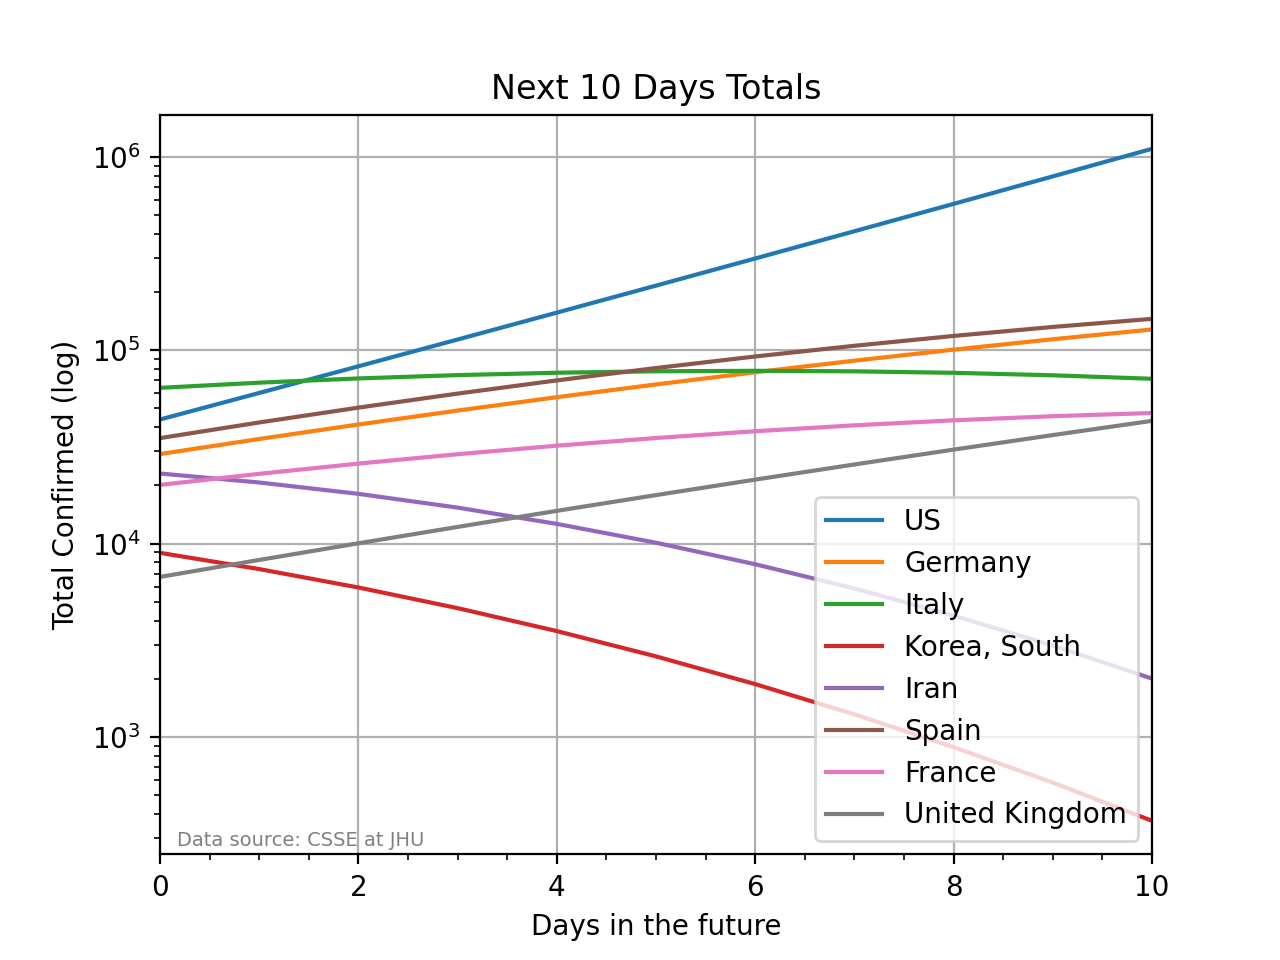
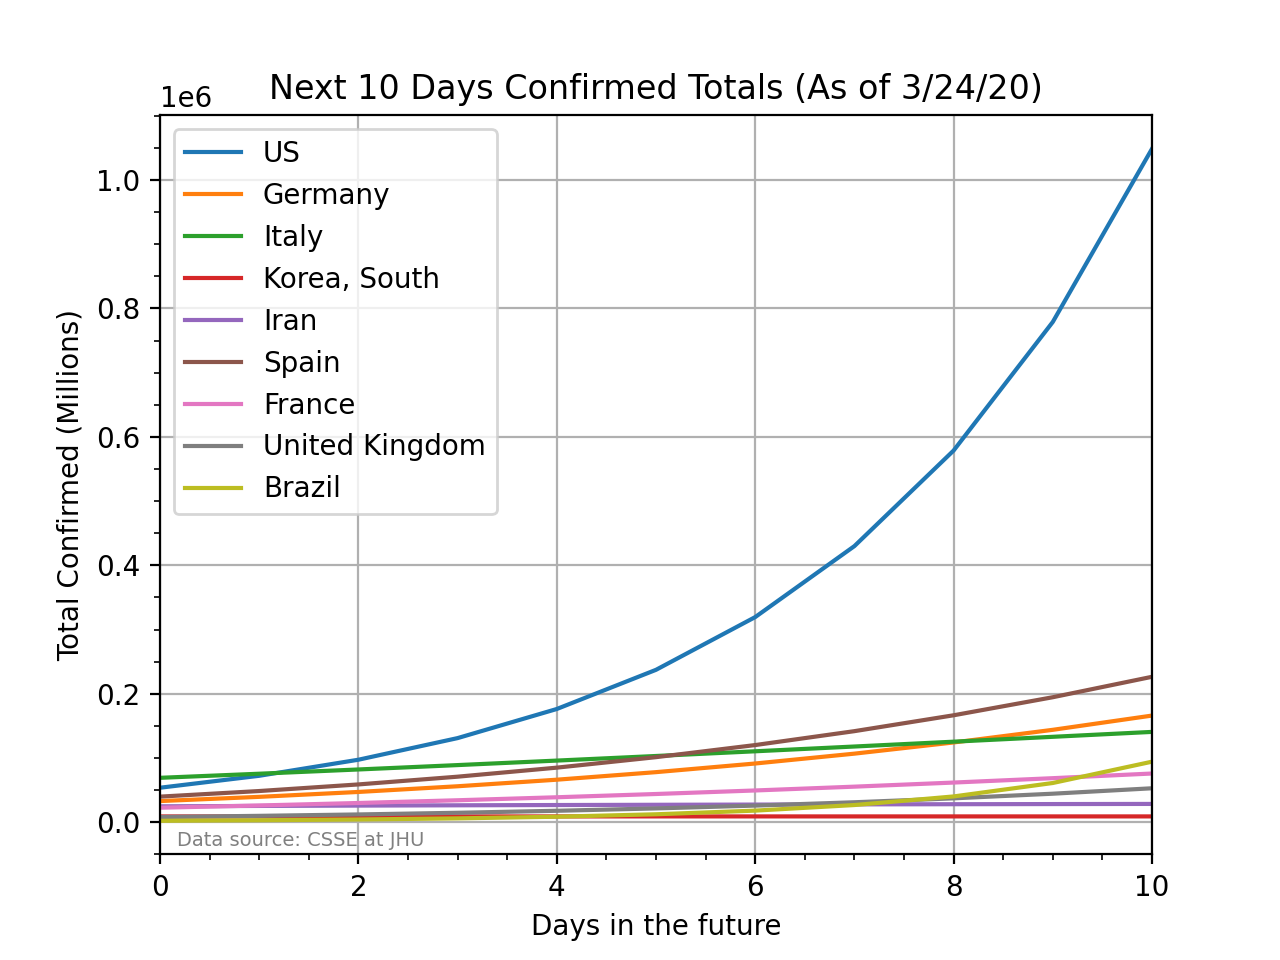
Latest updates + prediction script

diff --git a/predict_daily_growth_deaths.py b/predict_daily_growth_deaths.py
@@ -1,15 +1,23 @@
 import pandas as pd
 import numpy as np
 import matplotlib.pyplot as plt
+import scipy
 from sklearn.model_selection import train_test_split
 from sklearn.linear_model import LinearRegression
 from sklearn import metrics
 
+def exponential(x, a, k):
+    return a * np.exp(x * k)
 
-dataset = pd.read_csv('covid19_temp/country_confirmed_comparison.csv')
+dataset = pd.read_csv('covid19_temp/country_deaths_comparison.csv')
+days_to_predict = 10
 countries = dataset.columns.values[1:]
 countries_collection = {}
 
+#get the latest date in the report
+raw_data = pd.read_csv('covid19_temp/raw_data_confirmed_latest.csv')
+as_of_date = raw_data.columns.values[-1]
+raw_data = [] #clear memory
 
 for c in countries:
     country_ds = dataset[c]
@@ -21,14 +29,16 @@ for c in countries:
 
     country_ds = country_ds.loc[1:].copy()
 
-    X = country_ds['index'].values.reshape(-1,1)
-    y = country_ds['rate'].values.reshape(-1,1)
-    regressor = LinearRegression()
-    regressor.fit(X, y)
+    X = country_ds['index'].values.flatten()
+    y = country_ds['rate'].values.flatten()
+
+    popt_exponential, pcov_exponential = scipy.optimize.curve_fit(exponential, X, y, p0=[0.5, -0.1])
+
     X_values = {}
-    for n in range(len(country_ds.index)+1,len(country_ds.index)+11): X_values[n-len(country_ds.index)] = n
+    for n in range(len(country_ds.index)+1,len(country_ds.index)+days_to_predict+1): X_values[n-len(country_ds.index)] = n
     X_pred = pd.DataFrame(X_values, index=[0]).transpose()
-    y_pred = regressor.predict(X_pred)
+    X_pred['pred_y'] = X_pred.apply(lambda x: exponential(x[0], popt_exponential[0], popt_exponential[1]), axis=1)
+    y_pred = X_pred['pred_y'].values.flatten()
 
     country_ds_pred = country_ds.iloc[-1:,].copy()
     country_ds_pred = pd.concat([country_ds_pred,pd.DataFrame(y_pred)],axis=0)
@@ -42,16 +52,15 @@ for c in countries:
 
 aligned_countries = pd.concat(countries_collection, axis=1, sort=True)
 
-aligned_countries.to_csv('covid19_temp/predict_daily_growth_confirmed_comparison.csv')
+aligned_countries.to_csv('covid19_temp/predict_daily_growth_deaths_comparison.csv')
 
 plt = aligned_countries.plot()
-plt.set_yscale('log')
 plt.minorticks_on()
-plt.set_title('Next 10 Days Totals')
+plt.set_title('Next '+str(days_to_predict)+' Days Death Totals (As of '+as_of_date+')')
 plt.grid(True)
 plt.set_xlabel('Days in the future')
-plt.set_ylabel('Total Confirmed (log)')
+plt.set_ylabel('Total Deaths')
 plt.figure.text(0.235, 0.115, "Data source: CSSE at JHU", verticalalignment='bottom', horizontalalignment='center', color='grey', fontsize=7)
-plt.figure.savefig('covid19_temp/predicting_confirmed.png', dpi=200)
+plt.figure.savefig('covid19_temp/predicting_deaths.png', dpi=200)
 
 print("Done")

diff --git a/predict_daily_growth_confirmed.py b/predict_daily_growth_confirmed.py
@@ -1,0 +1,66 @@
+import pandas as pd
+import numpy as np
+import matplotlib.pyplot as plt
+import scipy
+from sklearn.model_selection import train_test_split
+from sklearn.linear_model import LinearRegression
+from sklearn import metrics
+
+def exponential(x, a, k):
+    return a * np.exp(x * k)
+
+dataset = pd.read_csv('covid19_temp/country_confirmed_comparison.csv')
+days_to_predict = 10
+countries = dataset.columns.values[1:]
+countries_collection = {}
+
+#get the latest date in the report
+raw_data = pd.read_csv('covid19_temp/raw_data_confirmed_latest.csv')
+as_of_date = raw_data.columns.values[-1]
+raw_data = [] #clear memory
+
+for c in countries:
+    country_ds = dataset[c]
+    country_ds.dropna(inplace=True)
+    country_ds = country_ds.reset_index()
+    country_ds['rate'] = np.nan
+    for i in range(1,len(country_ds.index)):
+        country_ds['rate'].at[i] = (country_ds.loc[i][1]/country_ds.loc[i-1][1])-1
+
+    country_ds = country_ds.loc[1:].copy()
+
+    X = country_ds['index'].values.flatten()
+    y = country_ds['rate'].values.flatten()
+
+    popt_exponential, pcov_exponential = scipy.optimize.curve_fit(exponential, X, y, p0=[0.5, -0.1])
+
+    X_values = {}
+    for n in range(len(country_ds.index)+1,len(country_ds.index)+days_to_predict+1): X_values[n-len(country_ds.index)] = n
+    X_pred = pd.DataFrame(X_values, index=[0]).transpose()
+    X_pred['pred_y'] = X_pred.apply(lambda x: exponential(x[0], popt_exponential[0], popt_exponential[1]), axis=1)
+    y_pred = X_pred['pred_y'].values.flatten()
+
+    country_ds_pred = country_ds.iloc[-1:,].copy()
+    country_ds_pred = pd.concat([country_ds_pred,pd.DataFrame(y_pred)],axis=0)
+    country_ds_pred.reset_index(drop=True, inplace=True)
+
+    for i in range(0,len(country_ds_pred)-1):
+        country_ds_pred.iloc[i+1,1] = country_ds_pred.iloc[i,1]*(1+country_ds_pred.iloc[i+1,0])
+
+    country_ds_pred.drop(labels=[0,'index','rate'], inplace=True, axis=1)
+    countries_collection[c] = country_ds_pred[c]
+
+aligned_countries = pd.concat(countries_collection, axis=1, sort=True)
+
+aligned_countries.to_csv('covid19_temp/predict_daily_growth_confirmed_comparison.csv')
+
+plt = aligned_countries.plot()
+plt.minorticks_on()
+plt.set_title('Next '+str(days_to_predict)+' Days Confirmed Totals (As of '+as_of_date+')')
+plt.grid(True)
+plt.set_xlabel('Days in the future')
+plt.set_ylabel('Total Confirmed (Millions)')
+plt.figure.text(0.235, 0.115, "Data source: CSSE at JHU", verticalalignment='bottom', horizontalalignment='center', color='grey', fontsize=7)
+plt.figure.savefig('covid19_temp/predicting_confirmed.png', dpi=200)
+
+print("Done")

diff --git a/compare_countries_confirmed.py b/compare_countries_confirmed.py
@@ -3,7 +3,7 @@ import matplotlib.pyplot as plt
 from pandas.plotting import register_matplotlib_converters
 register_matplotlib_converters()
 
-countries = ['US', 'Germany', 'Italy', 'Korea, South', 'Iran', 'Spain', 'France', 'United Kingdom']
+countries = ['US', 'Germany', 'Italy', 'Korea, South', 'Iran', 'Spain', 'France', 'United Kingdom', 'Brazil']
 #countries = ['US', 'Italy', 'Spain']
 
 raw_data = pd.read_csv('covid19_temp/raw_data_confirmed_latest.csv')

diff --git a/compare_countries_deaths.py b/compare_countries_deaths.py
@@ -3,7 +3,7 @@ import matplotlib.pyplot as plt
 from pandas.plotting import register_matplotlib_converters
 register_matplotlib_converters()
 
-countries = ['US', 'Germany', 'Italy', 'Korea, South', 'Iran', 'Spain', 'France', 'United Kingdom']
+countries = ['US', 'Germany', 'Italy', 'Korea, South', 'Iran', 'Spain', 'France', 'United Kingdom', 'Brazil']
 #countries = ['US', 'Italy', 'Spain']
 
 raw_data = pd.read_csv('covid19_temp/raw_data_deaths_latest.csv')
